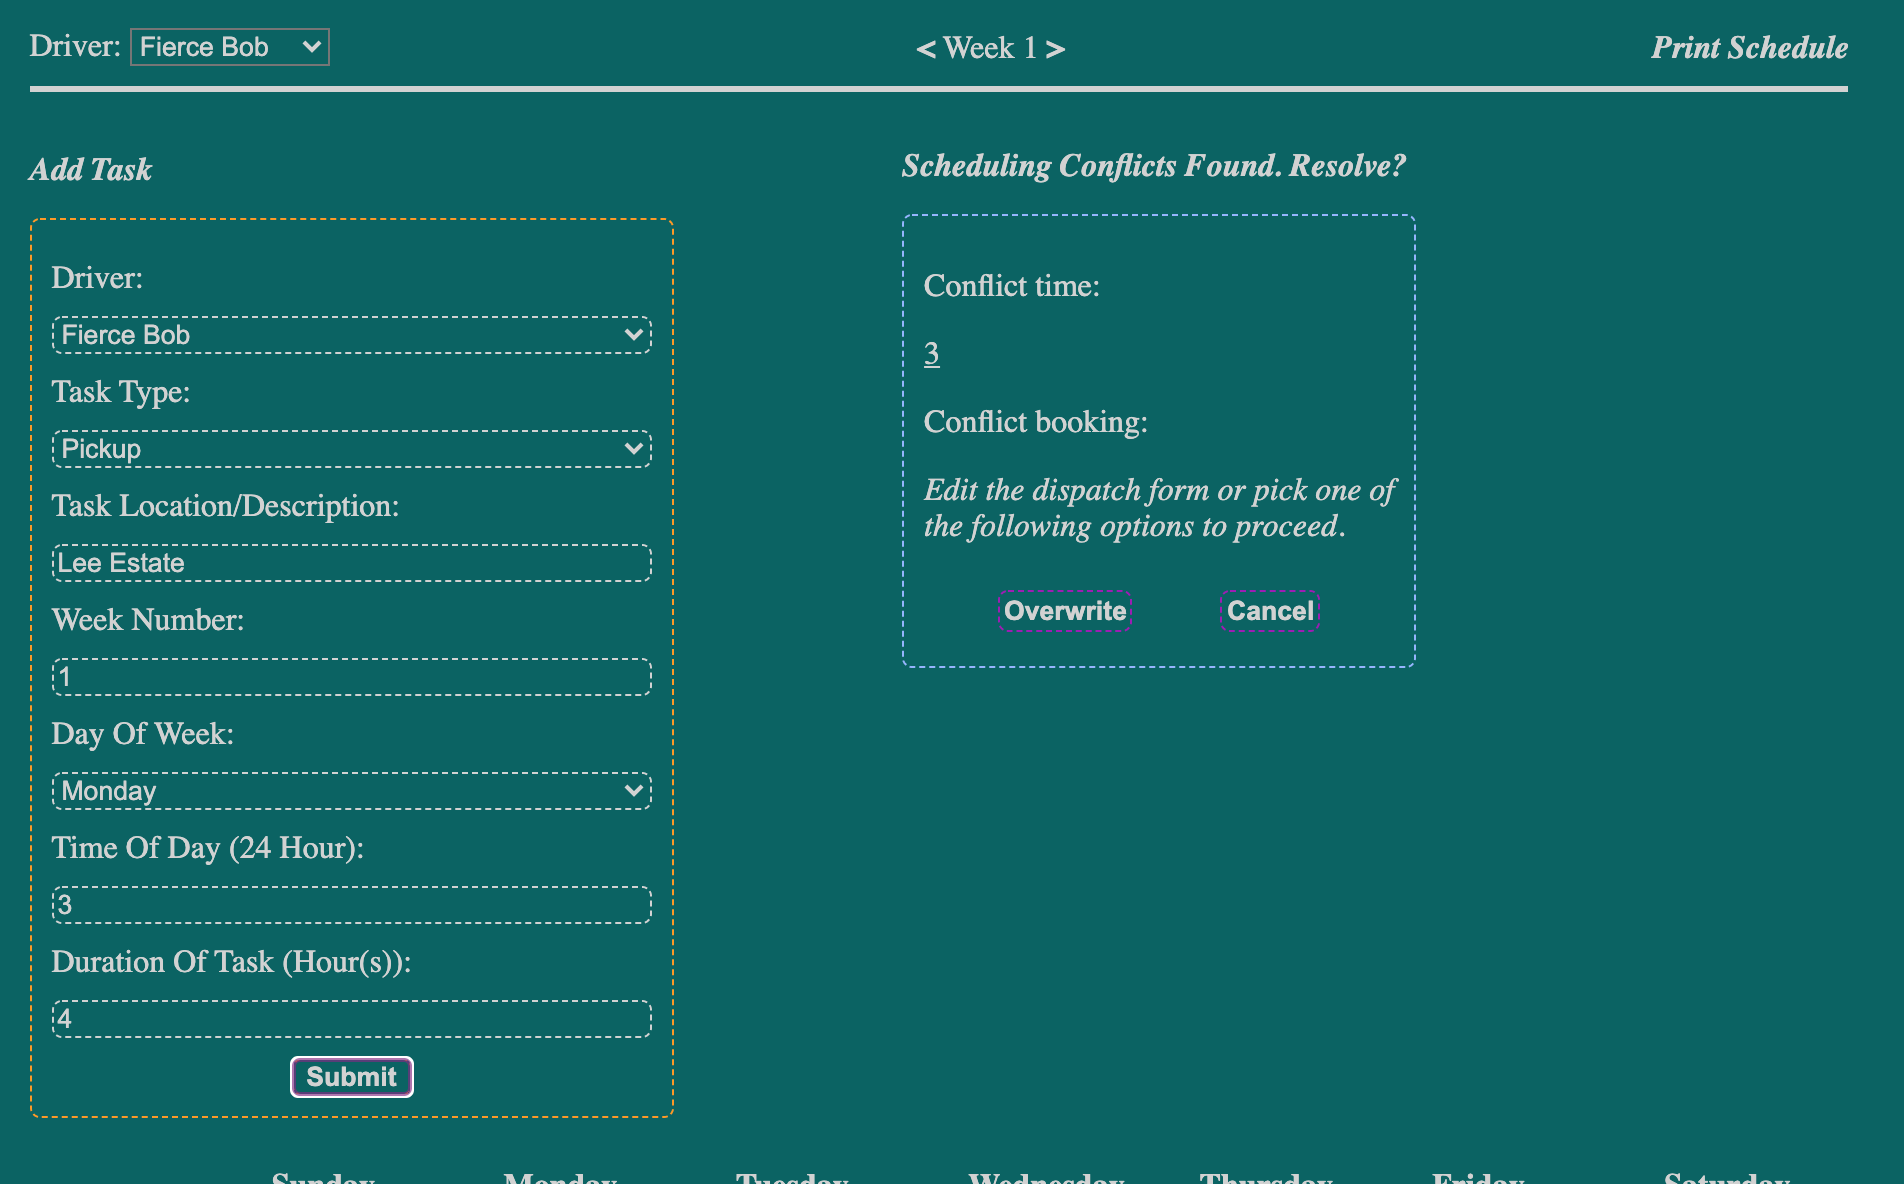
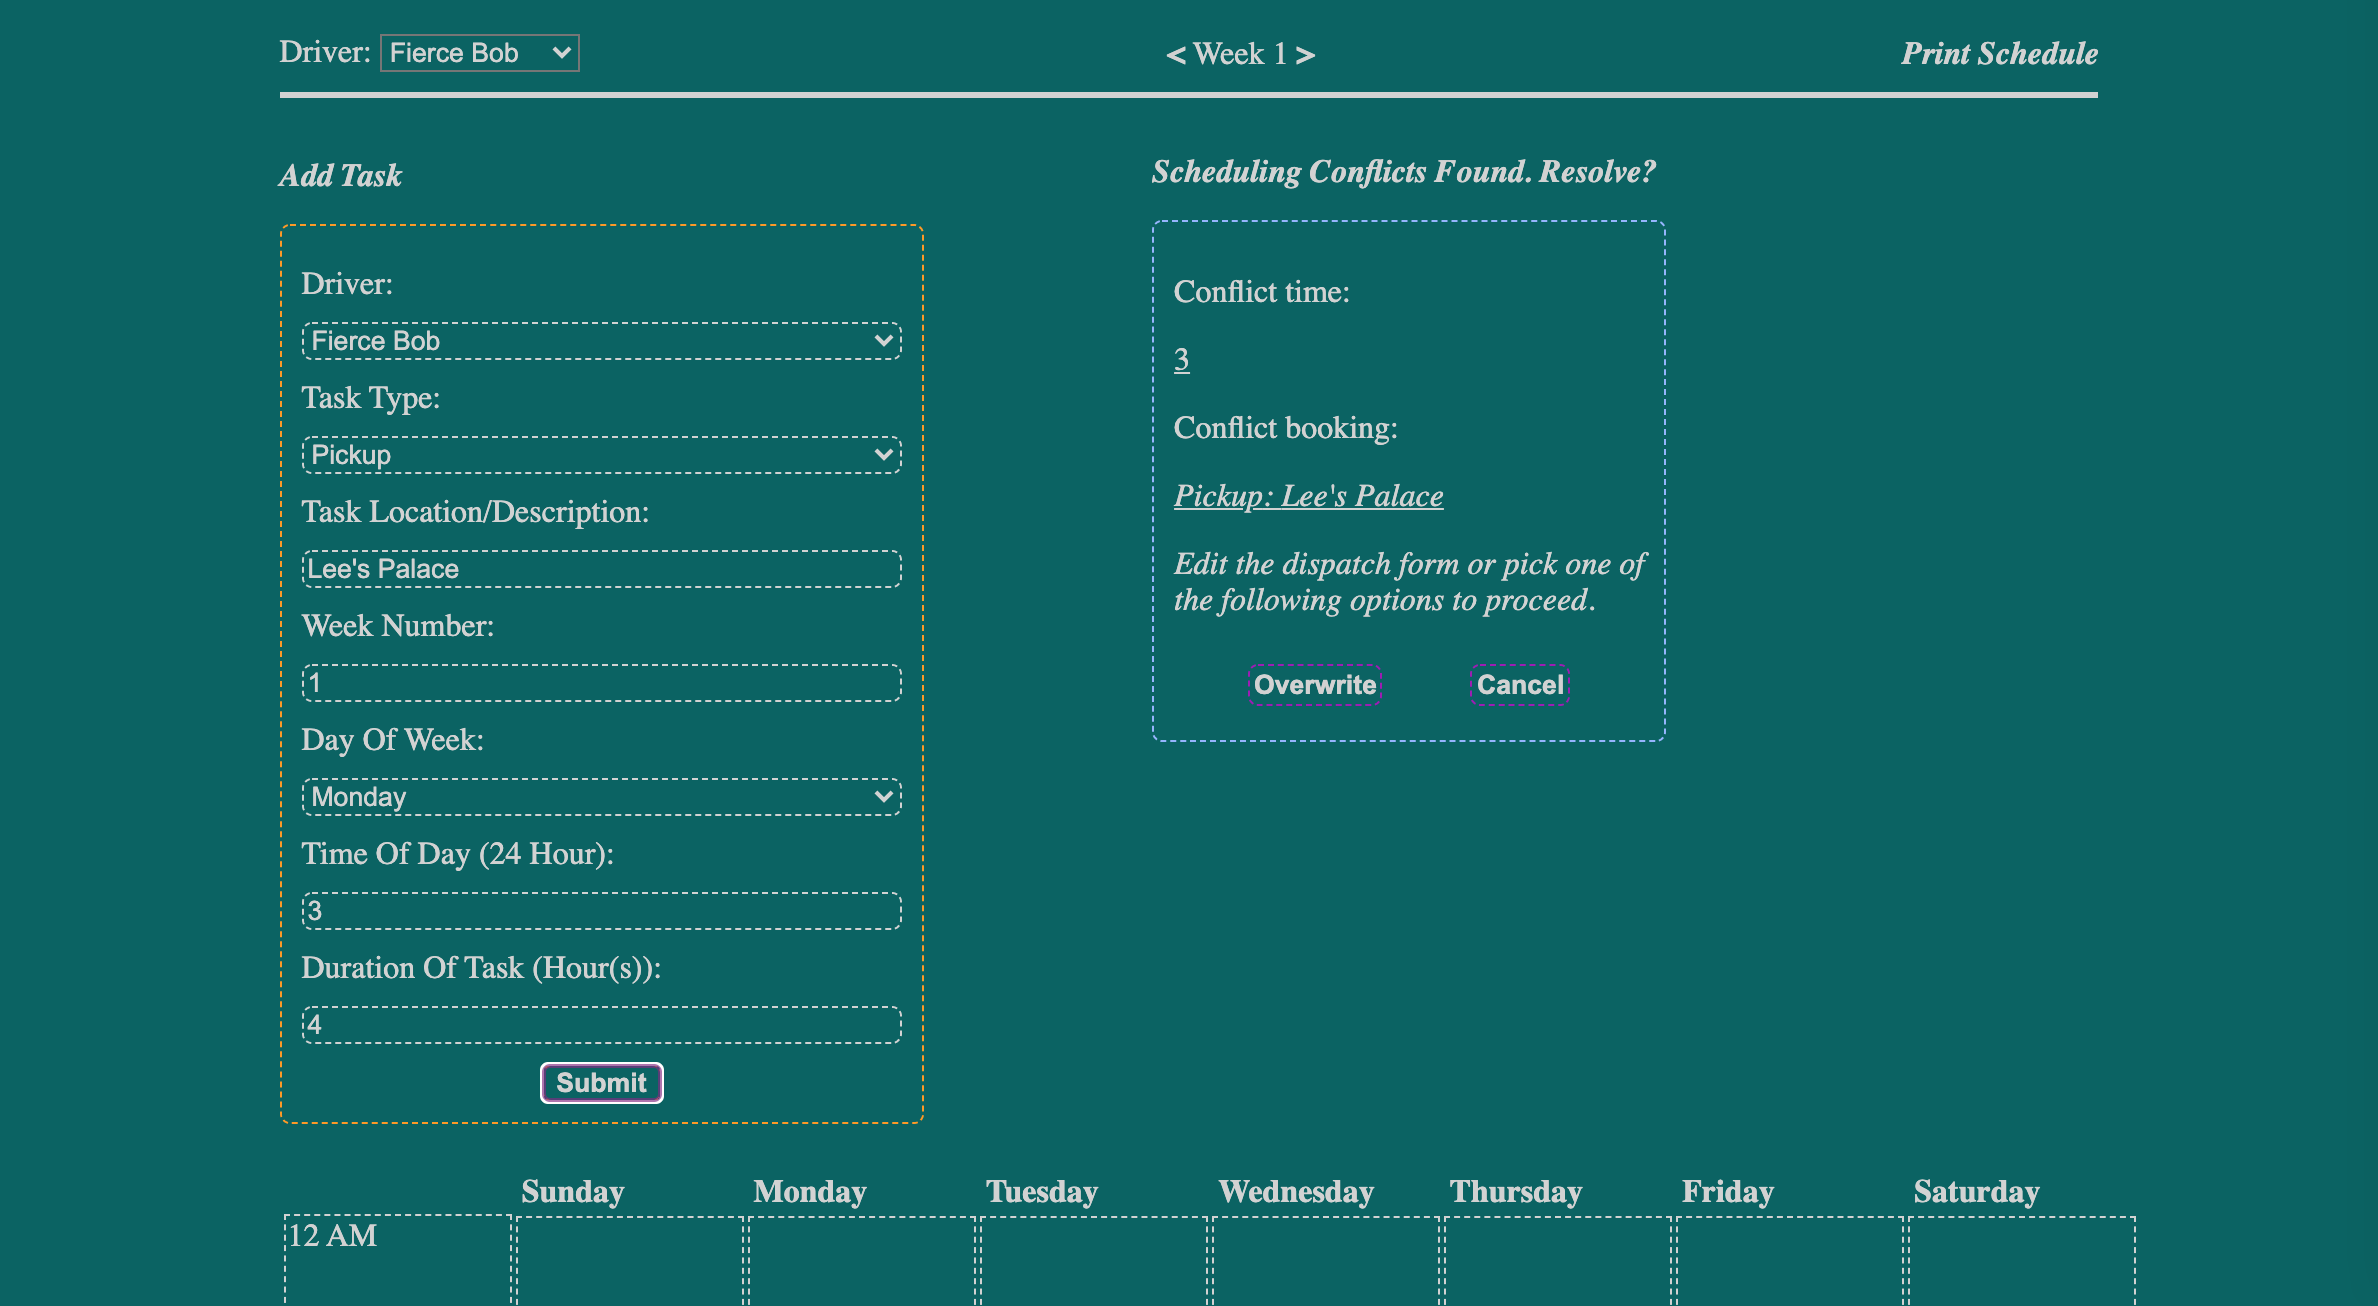
fix bug and update images

diff --git a/src/components/Conflict.js b/src/components/Conflict.js
@@ -14,7 +14,7 @@ export default function Conflict(props) {
       {/* <p><u>2</u></p> */}
 
       <p>Conflict booking:</p>
-      <p><em><u>{props.conflictObj.conflictTask}</u></em></p>
+      <p><em><u>{props.conflictObj.conflictTaskType}: {props.conflictObj.conflictLocation}</u></em></p>
       {/* <p><em><u>Other: Pickup: Going to the docks</u></em></p><br/> */}
       <p><em>Edit the dispatch form or pick one of <br/>the following options to proceed.</em></p>
       <div class="conflict-resolution-button-container">

diff --git a/README.md b/README.md
@@ -1,18 +1,26 @@
 # Dispatcher
 
-Dispatcher is a simple truck driver dispatch managing app created for the Rose Rocket summer coding challenge.  It records Dropoff, Pickup and Other tasks on a basic calendar interface and allows for editing and deletion. It was made using Create React App.
+Dispatcher is a simple truck driver dispatch managing app made using React. It was created for the Rose Rocket summer coding challenge. 
 
-Some user stories were not completed. The unfulfilled requirements were:
--when a task is being edited, it does not offer the option to overwrite currently existing tasks if the task times overlap
--no driver spreadsheet report functionality has been added
+Dispatcher records Dropoff, Pickup and Other tasks on a basic calendar interface and allows for editing and deletion. It allows users to interact with calendars for 3 different drivers over a span of 52 numbered weeks.
+
+<em>Some user stories were not completed</em>. The unfulfilled requirements were:
+- when a task is being edited, it does not offer the option to overwrite currently existing tasks if the task times overlap
+- no driver spreadsheet report functionality has been added
 
 ## Dependencies
 
--React
--React-DOM
--Classnames
+- React
+- React-DOM
+- Classnames
+
+## Images
+
+![Calendar Interface](https://github.com/eileenlimur/rose_rocket_challenge/blob/master/src/images/dispatcher-calendar.png?raw=true)
+
+![Task Creation/Editing Interface](https://github.com/eileenlimur/rose_rocket_challenge/blob/master/src/images/dispatcher-dashboard.png?raw=true)
 
 
-## Available Scripts
+## Run The App
 
 run `npm start` to run the app in the development mode on [http://localhost:3000](http://localhost:3000).
